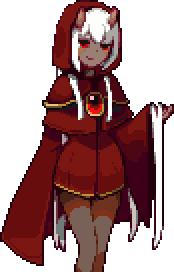
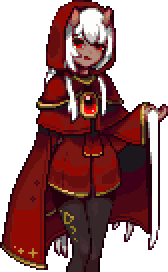
Refactor SupCal assets and adjust logic flow
Replaced SupCal-related images and unified portrait asset usage by removing redundant smile-specific logic. Adjusted projectile AI timing to trigger earlier.

diff --git a/Content/UIs/MainMenuOverUIs/SupCalPortraitUI.cs b/Content/UIs/MainMenuOverUIs/SupCalPortraitUI.cs
@@ -260,7 +260,7 @@ namespace CalamityOverhaul.Content.UIs.MainMenuOverUIs
         private Texture2D GetCurrentPortraitTexture() {
             return _currentExpression switch {
                 PortraitExpression.CloseEyes => ADVAsset.SupCal_closeEyesADV ?? ADVAsset.SupCalADV,
-                PortraitExpression.Smile => ADVAsset.SupCal_smileADV ?? ADVAsset.SupCalADV,
+                PortraitExpression.Smile => ADVAsset.SupCalADV ?? ADVAsset.SupCalADV,
                 _ => ADVAsset.SupCalADV
             };
         }

diff --git a/TextItem.cs b/TextItem.cs
@@ -23,7 +23,7 @@ namespace CalamityOverhaul
 
         public override void AI() {
             Projectile.ai[0]++;
-            if (Projectile.ai[0] == 360) {
+            if (Projectile.ai[0] == 90) {
                 ScenarioManager.Reset<EternalBlazingNow>();
                 ScenarioManager.Start<EternalBlazingNow>();
             }
